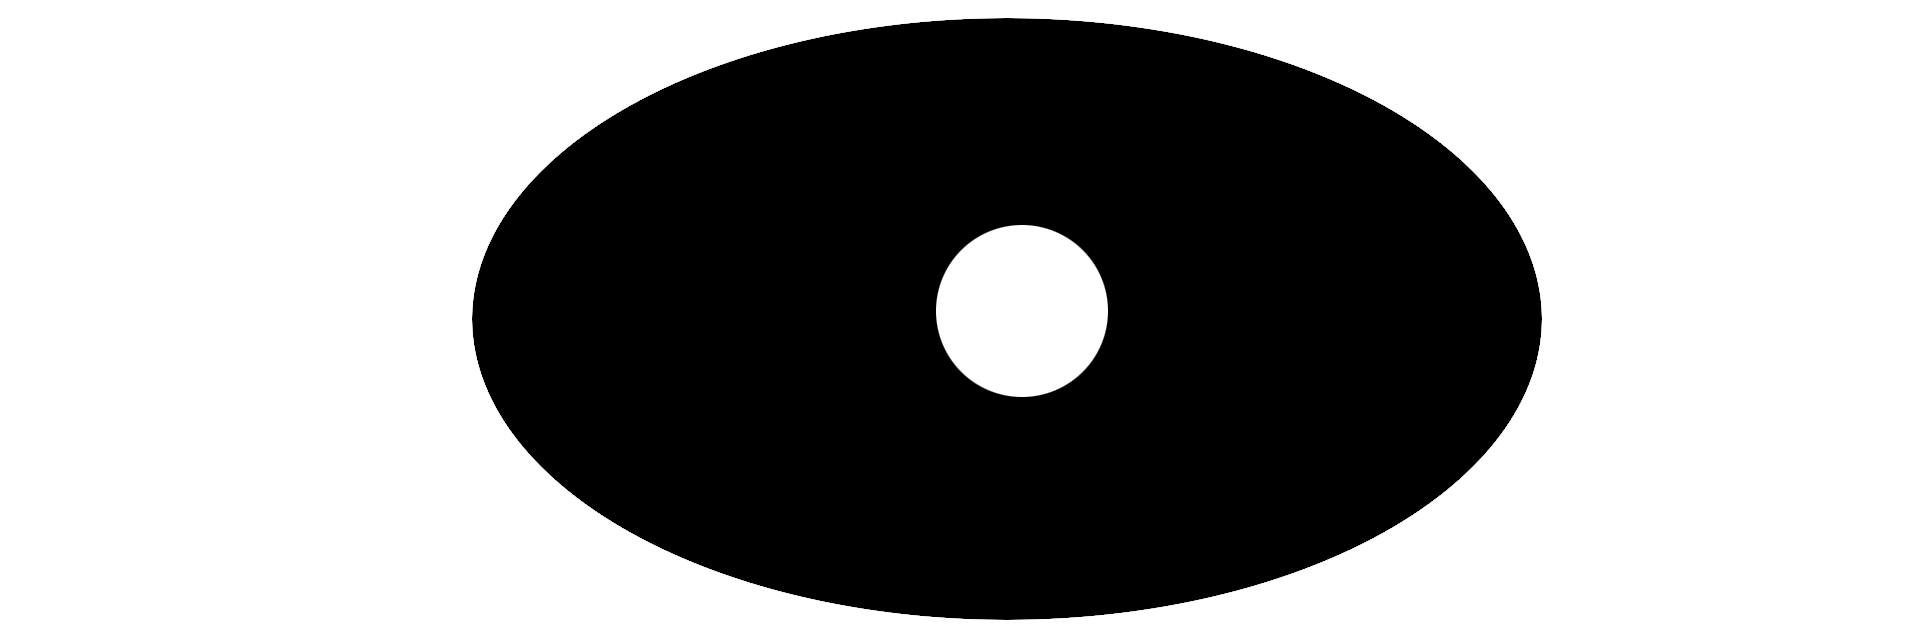
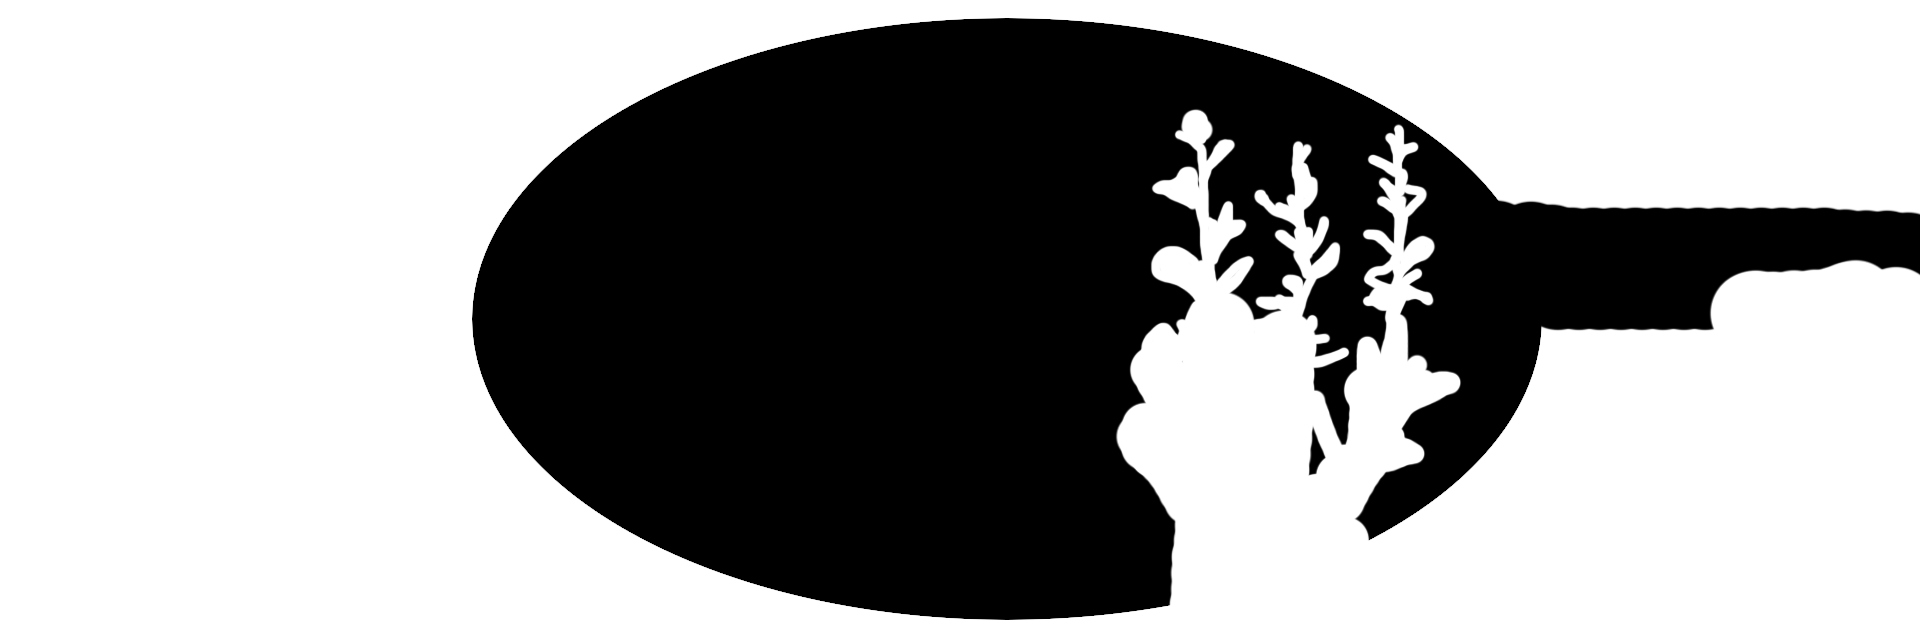
Updated 3rd input image and mask

Changed region(s): [[0.4688, 0.1562, 0.7812, 0.9375], [0.7812, 0.3125, 1.0, 0.5312]]

diff --git a/sketch.js b/sketch.js
@@ -3,9 +3,9 @@ let maskImg = null;
 let renderCounter = 0;
 
 // change these three lines as appropiate
-let sourceFile = "input_2.jpg";
-let maskFile = "mask_2.png";
-let outputFile = "output_2.png";
+let sourceFile = "input_3.jpg";
+let maskFile = "mask_3.png";
+let outputFile = "output_3.png";
 
 function preload() {
   sourceImg = loadImage(sourceFile);
@@ -43,7 +43,7 @@ function draw() {
     console.log("Done!")
     noLoop();
     // uncomment this to save the result
-     //saveArtworkImage(outputFile);
+    // saveArtworkImage(outputFile);
   }
 }
 

diff --git a/README.md b/README.md
@@ -2,4 +2,4 @@
 
 I have started putting in my own input images and changing the mask to work with the new images. I am finding the project pretty easy to understand at this point and am excited to get more into changing the code and seeing how that changes the render. Unfortunately at this stage the thumbnail and preview will not display correctly
 
-The images above are photos from around my farm and the area I live in algorithmically processed with a lightly modified version of the [p5.js Pointillism example](https://p5js.org/examples/image-pointillism.html). The masks for each photo highlight various objects. In this image, I have used the mask to highlight the flowers in the middle of the image.
+The images above are photos from around my farm and the area I live in algorithmically processed with a lightly modified version of the [p5.js Pointillism example](https://p5js.org/examples/image-pointillism.html). The masks for each photo highlight various objects. In this image, I have used the mask to highlight the bushes and background of the image which set aside the mountain in the background
